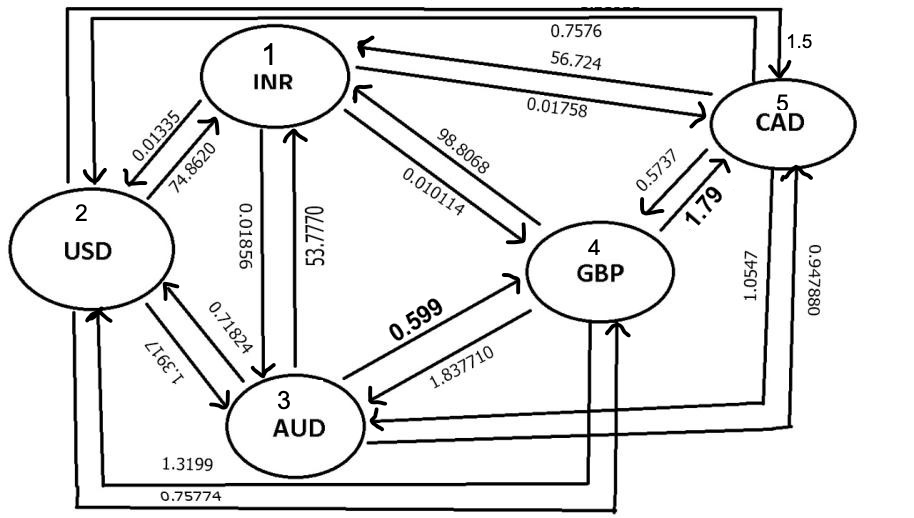
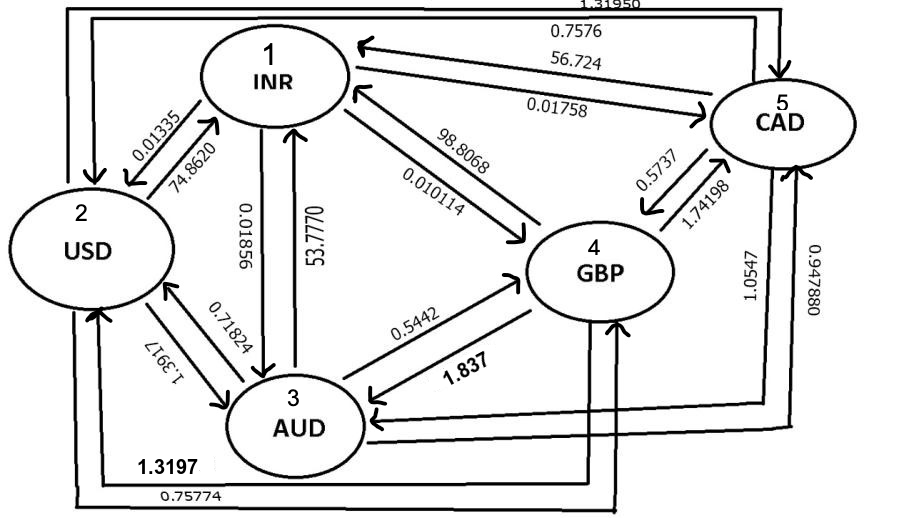
final project everything working

diff --git a/javascript.js b/javascript.js
@@ -1,3 +1,4 @@
+
 function path(parent,dest,id)
 {
     var stack=[];
@@ -15,7 +16,7 @@ function path(parent,dest,id)
     // // console.log(stack[i]);
     // console.log(stack[-1]);
 
-    if(stack[stack.length-1]!=dest)
+    if(stack.indexOf(dest) == -1)
     answer+= dest + "->";
 
     while(!stack.length==0){
@@ -137,11 +138,12 @@ function main2()
         [0,0], //only to make one based indexing
         [0.01335,0.01856,0.010114,0.01758],  //INR
         [74.8620,1.3917,0.75774,1.31950],     //USD
-        [53.7770,0.71824,0.5441,0.947880],  //AUD
+        [53.7770,0.72,0.5441,0.947880],  //AUD
         [98.8068,1.31,1.837710,1.74198],  //GBP
         [56.724,0.7576,1.0547,0.5737]       //CAD
     ];  //changed gbp to usd from 1.3199 to 1.31
-        //changed AUD to GBP from 0.5441 to 0.5442
+        //changed AUD to GBP from 0.5442 to 0.5441
+        //changed AUD to USD from 0.71824 to 0.72
 
     var e=20;
     var n=5;
@@ -167,12 +169,12 @@ function main3()
         [0,0], //only to make one based indexing
         [0.01335,0.01856,0.010114,0.01758],  //INR
         [74.8620,1.3917,0.75774,1.31950],     //USD
-        [53.7770,0.71824,0.599,0.947880],  //AUD
-        [98.8068,1.3199,1.837710,1.79],  //GBP
+        [53.7770,0.71824,0.5442,0.947880],  //AUD
+        [98.8068,1.3197,1.837,1.7418],  //GBP
         [56.724,0.7576,1.0547,0.5737]       //CAD
     ];  
-    // changed AUD->GBP 0.599 instead of 0.5442
-    //changed GBP->CAD 1.79 instead of 1.74198
+    //changed GBP->AUD 1.837 instead of 1.837710
+    //changed GBP->USD 1.3197 isnstead of 1.3199
 
     var src= (document.querySelector("#input_source3").value);
 
